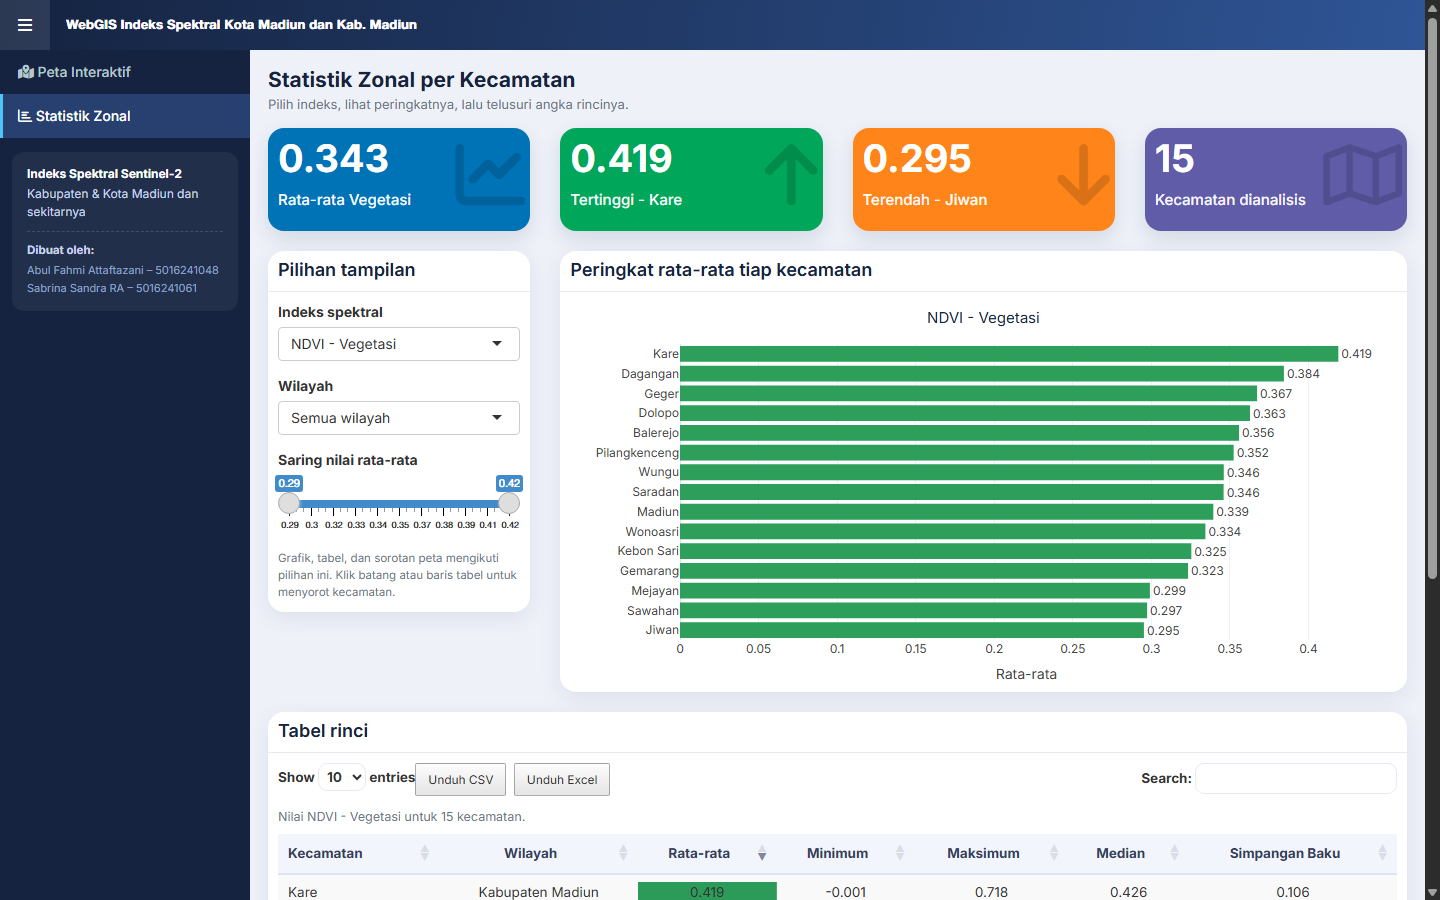
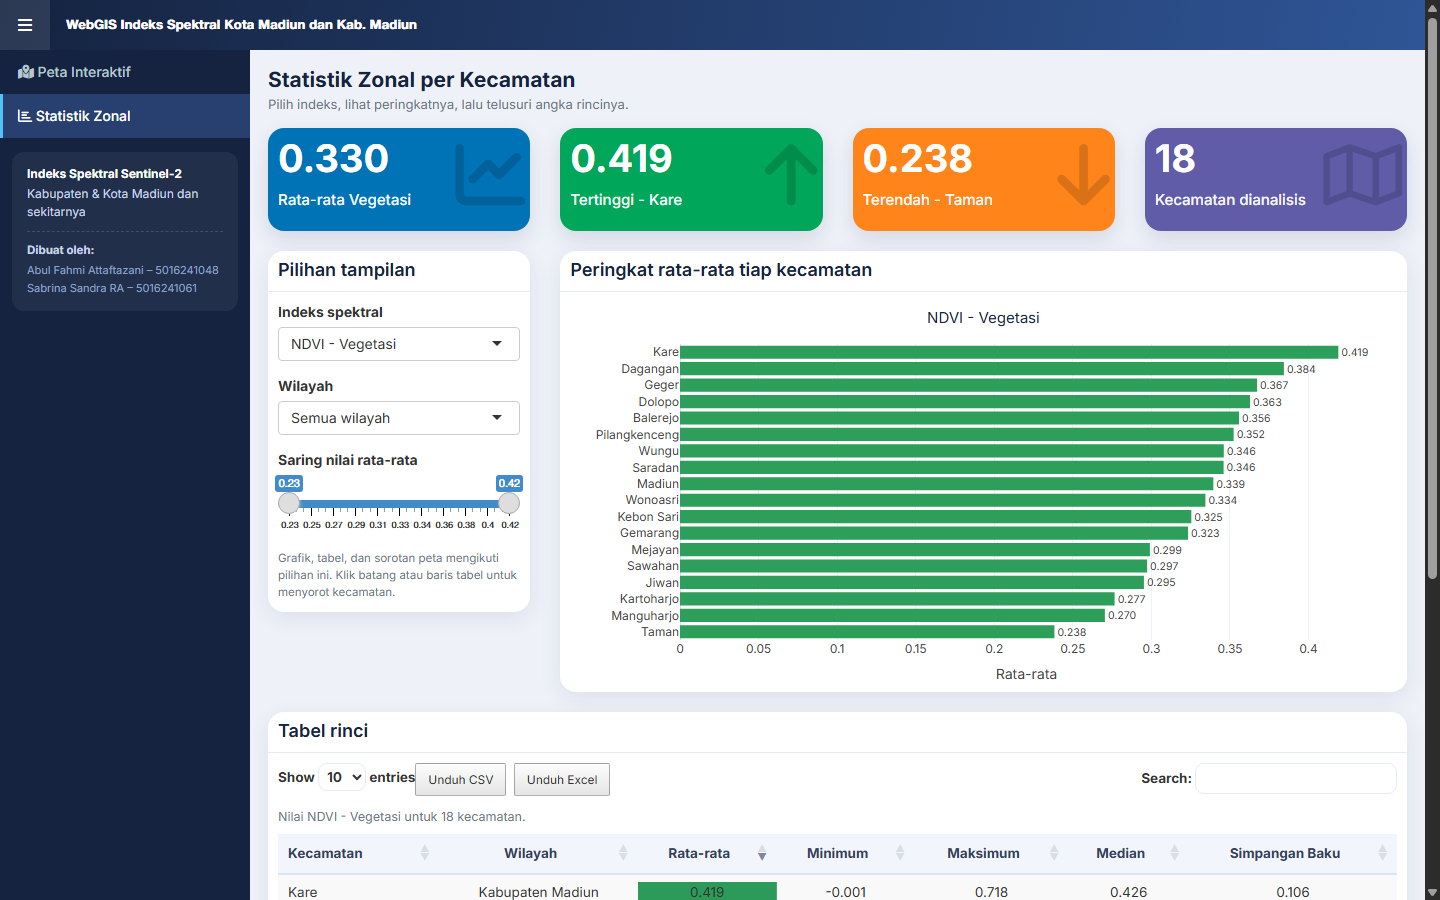
data: perbarui 18 kecamatan (Kab + Kota Madiun), filter wilayah, dan screenshot
- Statistik Zonal: dropdown Wilayah (Kota Madiun / Kabupaten Madiun / Semua wilayah)

- Perbarui tubes.R dan Zonal_Statistics_Madiun.csv (15 Kab + 3 Kota = 18 kecamatan)

- Perbarui README dan tangkapan layar

diff --git a/README.md b/README.md
@@ -61,6 +61,7 @@ untuk kawasan terbangun, NDWI untuk badan air, dan NDCI untuk klorofil perairan.
   mandiri tanpa mengganggu indeks.
 - **Popup nilai per kecamatan** dan **sorotan wilayah** langsung dari peta.
 - **Statistik zonal interaktif**:
+  - Filter **wilayah**: Kota Madiun, Kabupaten Madiun, atau semua wilayah.
   - Grafik peringkat kecamatan (hover & zoom) berbasis Plotly.
   - Slider untuk menyaring kecamatan berdasarkan rentang nilai rata-rata.
   - Tabel rinci yang dapat diurutkan, dicari, dan dipaginasi (DT).
@@ -155,8 +156,9 @@ Rscript app.R
 
 ## Keluaran
 
-`output/Zonal_Statistics_Madiun.csv` berisi satu baris per kecamatan (15
-kecamatan) dengan kolom statistik untuk setiap indeks:
+`output/Zonal_Statistics_Madiun.csv` berisi satu baris per kecamatan (18
+kecamatan: 15 di Kabupaten Madiun dan 3 di Kota Madiun) dengan kolom statistik
+untuk setiap indeks:
 
 | Kolom | Keterangan |
 |-------|------------|
